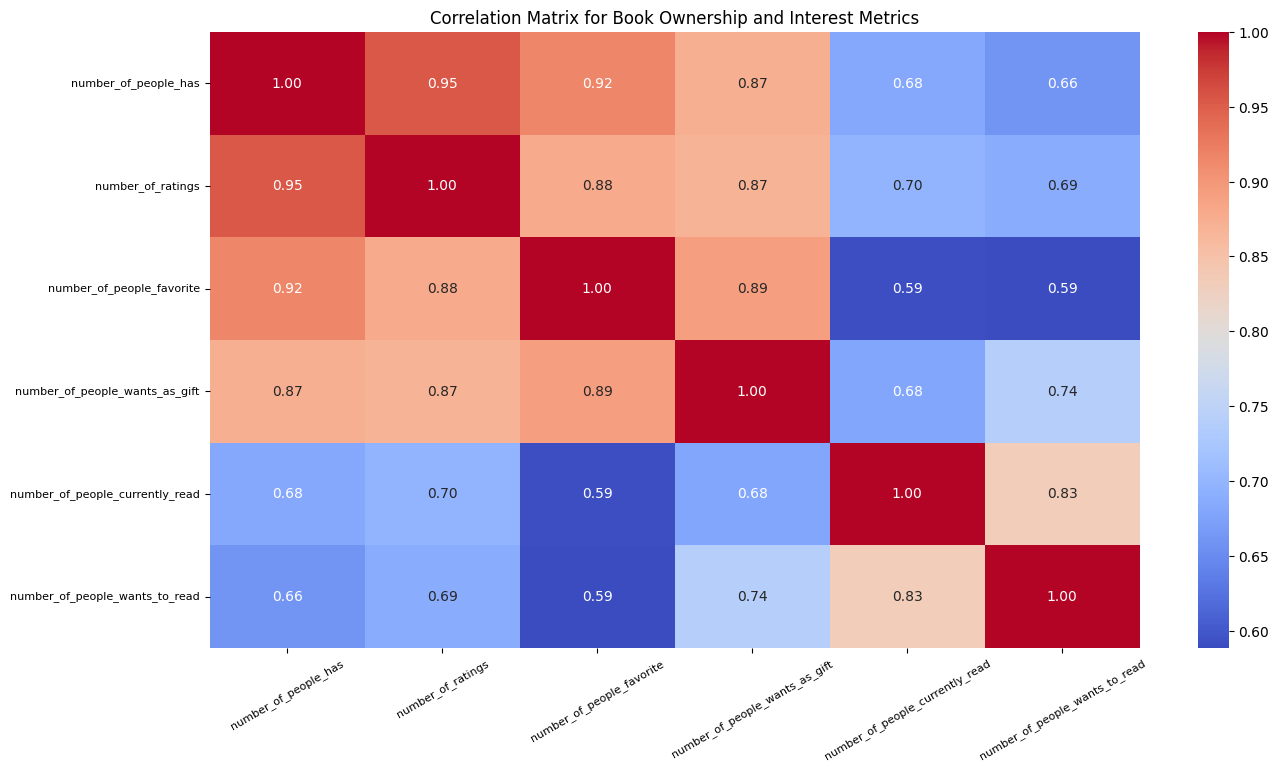
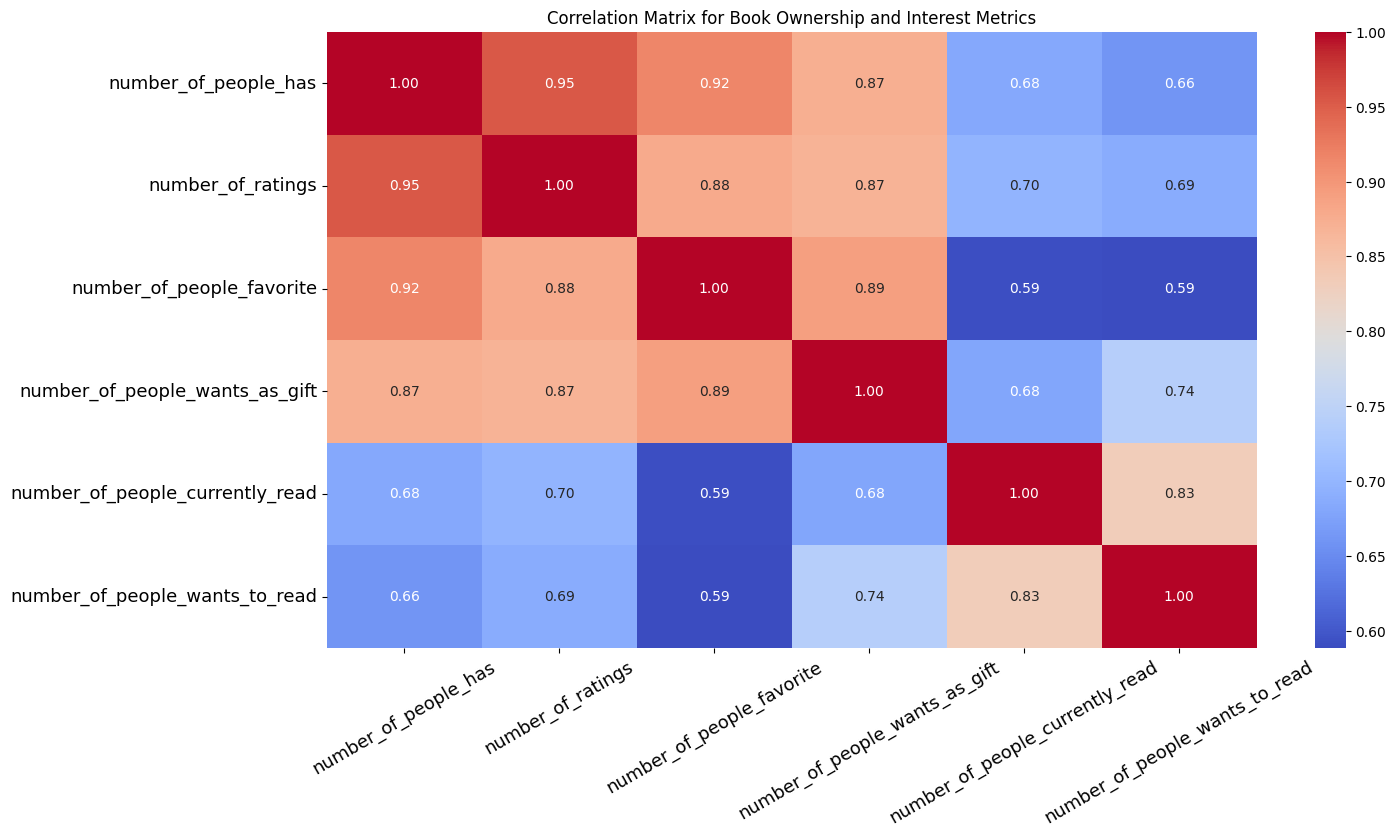
Add correlation matrix header and image to data exploration page

diff --git a/pages/data_exploration/data_exploration.py b/pages/data_exploration/data_exploration.py
@@ -28,6 +28,10 @@ def show_data_exploration():
         books_df = pd.read_csv(BOOKS_PATH)
         umap_bestseller_df = pd.read_csv(UMAP_BESTSELLERS_PATH)
         umap_clusters_df = pd.read_csv(UMAP_CLUSTERS_PATH)
+
+        st.header('Macierz Korelacji Danych na Temat Posiadania Książki')
+        st.image('data/pics/correlation_ownership.png')
+
         st.header('Rozkłady jądrowe liczby stron w książkach w zależności od kategorii')
         
         show_number_of_pages_based_on_category(books_df)
